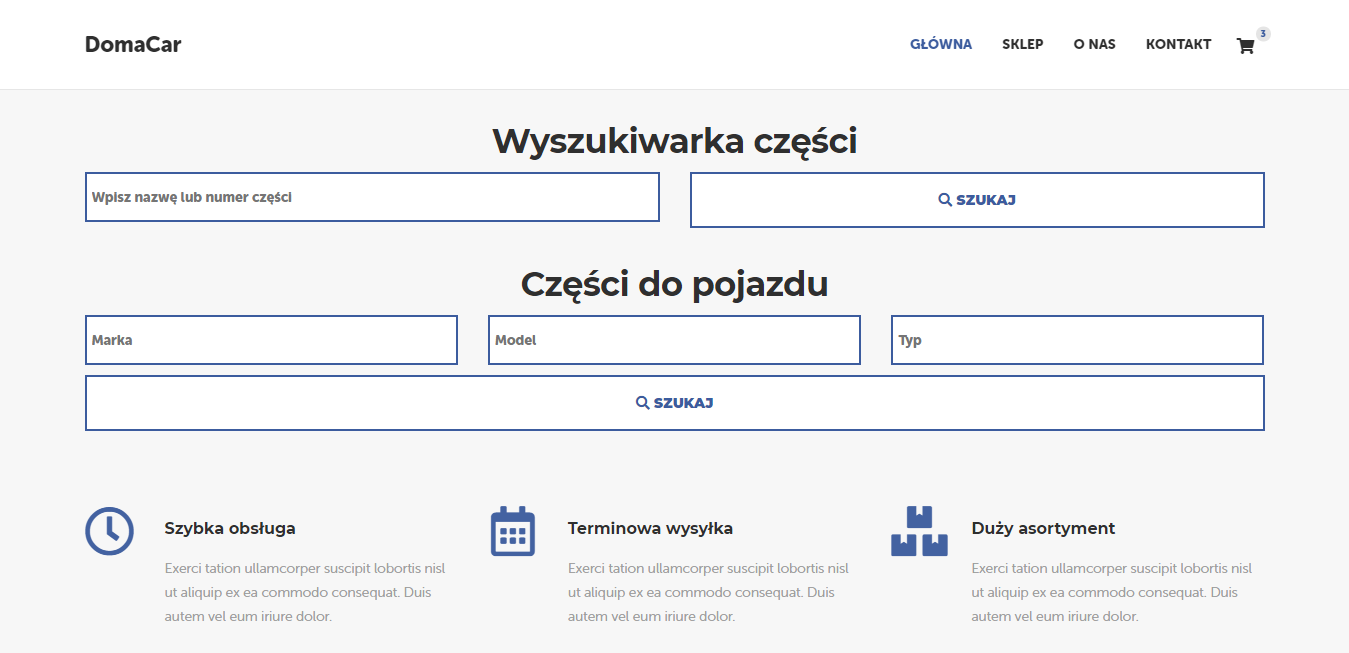
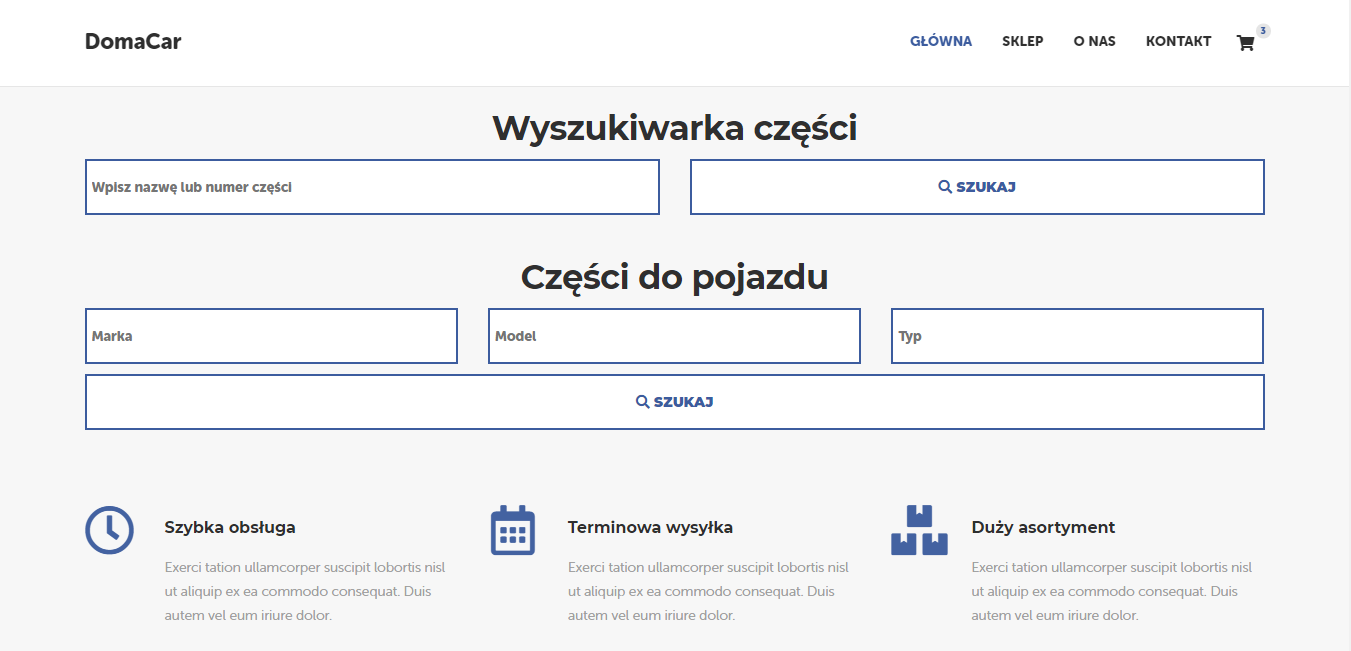
Fix for home search input height

diff --git a/src/app/home/search/search.component.scss b/src/app/home/search/search.component.scss
@@ -25,7 +25,7 @@ input {
   box-shadow: none;
   letter-spacing: 0;
   outline: none;
-  height: 50px;
+  height: 56px;
   padding: 0 5px;
   text-align: left;
   font-size: 14px;
